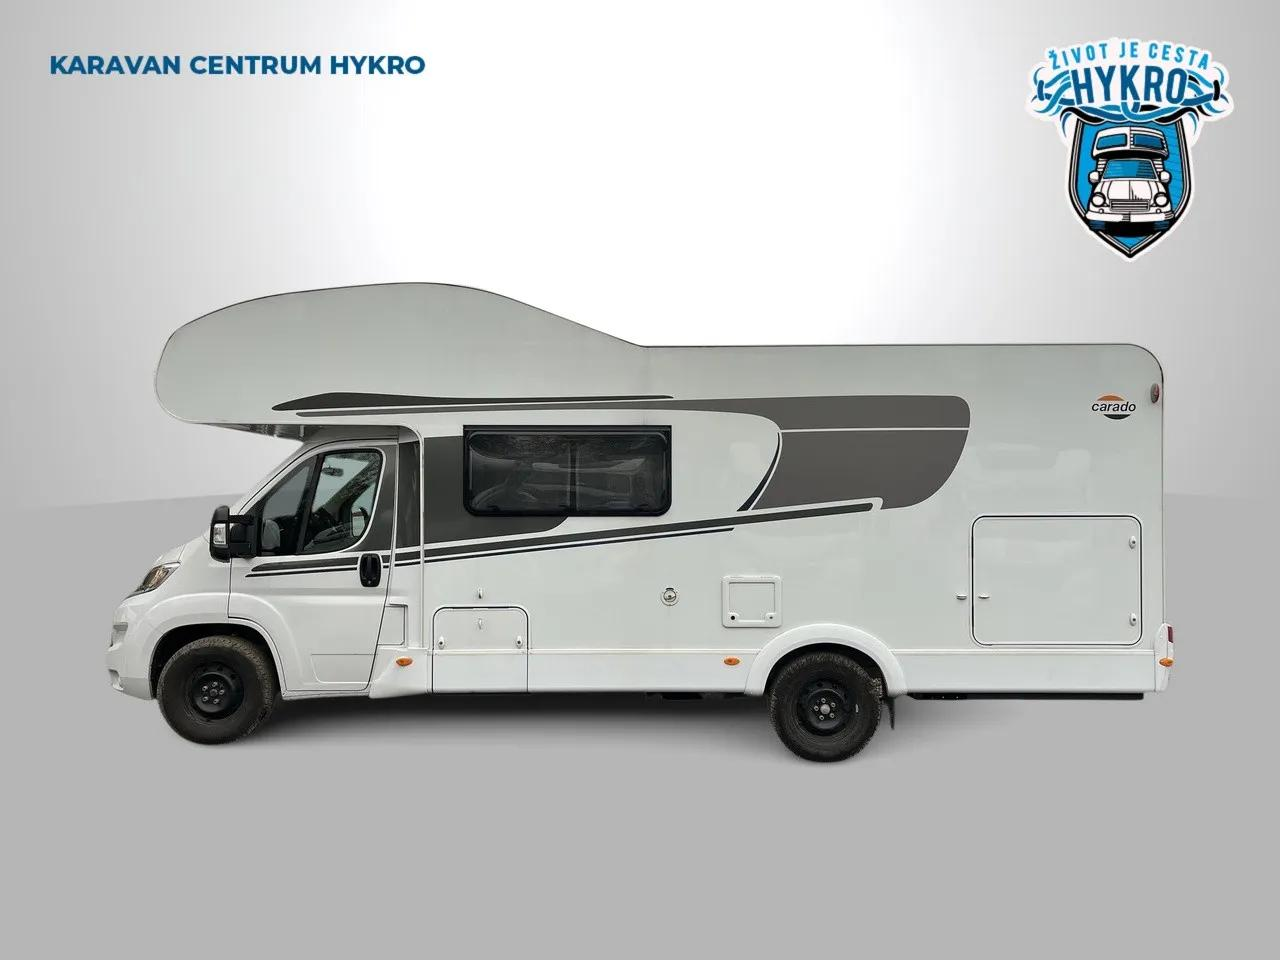
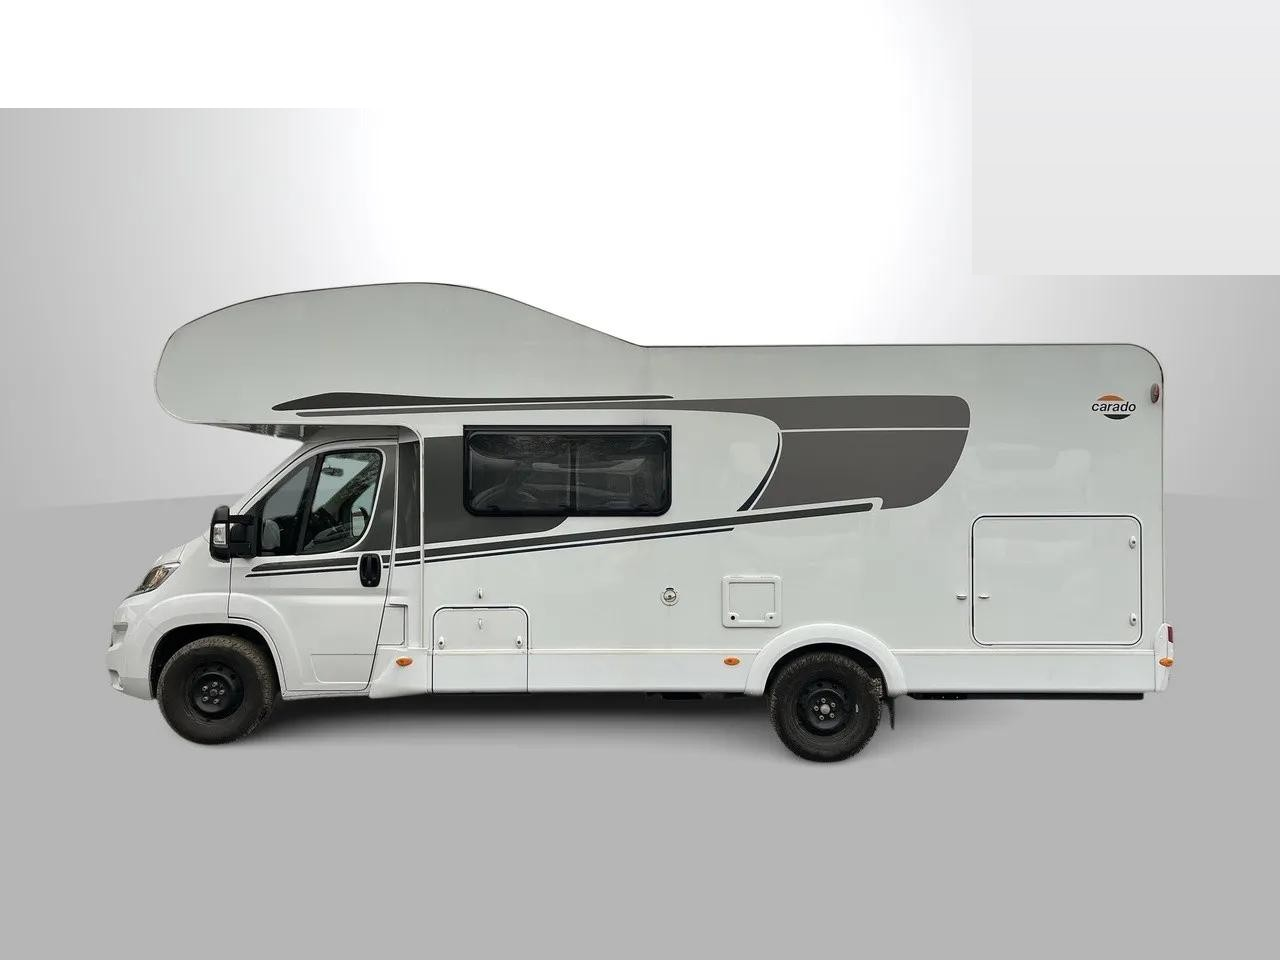
Odstranění vodoznaku HYKRO a doplnění fotek ložnice, koupelny a interiéru
- z 5 exteriérových fotek Carada A 464 odstraněn vodoznak/logo
  "KARAVAN CENTRUM HYKRO" (přemalováno barvou pozadí, bez zásahu do
  samotného vozu)
- doplněny nové reálné fotky: ložnice (pevné lůžko), koupelna s oddělenou
  sprchou, celkový pohled do interiéru a fotka vozu na cestách v horách
- fotogalerie nyní obsahuje všech 13 fotek vozu správně roztříděných
  (exteriér/interiér/dispozice/na cestách) místo provizorních záměn
- v sekci Interiér na stránce obytné auto teď je skutečná fotka ložnice
  a koupelny místo neodpovídajících náhrad
- doplněna klimatizace Dometic FreshJet FJZ4 2200 do výbavy

Changed region(s): [[0.8125, 0.0, 1.0, 0.3125], [0.0, 0.0, 0.3438, 0.125]]

diff --git a/fotogalerie.html b/fotogalerie.html
@@ -52,9 +52,13 @@
         <a href="src/carado-a464-ext-predek-2.jpg" data-lb data-cat="ext" data-caption="Alkovna nad kabinou"><img src="src/carado-a464-ext-predek-2.jpg" alt="Alkovna nad kabinou" loading="lazy"><span>Alkovna nad kabinou</span></a>
         <a href="src/carado-a464-ext-bok.jpg" data-lb data-cat="ext" data-caption="Boční pohled"><img src="src/carado-a464-ext-bok.jpg" alt="Carado A 464 z boku" loading="lazy"><span>Boční pohled</span></a>
         <a href="src/carado-a464-ext-bok-2.jpg" data-lb data-cat="ext" data-caption="Boční pohled"><img src="src/carado-a464-ext-bok-2.jpg" alt="Carado A 464 z boku" loading="lazy"><span>Boční pohled</span></a>
+        <a href="src/carado-a464-ext-priroda.jpg" data-lb data-cat="trip" data-caption="Carado A 464 na cestách"><img src="src/carado-a464-ext-priroda.jpg" alt="Carado A 464 v horách" loading="lazy"><span>Na cestách</span></a>
         <a href="src/Grossglockner-Hochalpenstrasse-35c513e7-828b-4444-861d-616a0269dcc5.webp" data-lb data-cat="trip" data-caption="Alpské serpentiny – Grossglockner Hochalpenstrasse"><img src="src/Grossglockner-Hochalpenstrasse-35c513e7-828b-4444-861d-616a0269dcc5.webp" alt="Alpské serpentiny" loading="lazy"><span>Alpy – Grossglockner</span></a>
-        <a href="src/carado-a464-int-kabina.jpg" data-lb data-cat="int" data-caption="Kabina řidiče"><img src="src/carado-a464-int-kabina.jpg" alt="Kabina řidiče" loading="lazy"><span>Kabina řidiče</span></a>
+        <a href="src/carado-a464-int-celkovy-pohled.jpg" data-lb data-cat="int" data-caption="Celkový pohled do interiéru"><img src="src/carado-a464-int-celkovy-pohled.jpg" alt="Interiér vozu – kuchyň, jídelní kout a ložnice" loading="lazy"><span>Interiér vozu</span></a>
+        <a href="src/carado-a464-int-loznice.jpg" data-lb data-cat="int" data-caption="Pevné lůžko vzadu"><img src="src/carado-a464-int-loznice.jpg" alt="Ložnice" loading="lazy"><span>Ložnice</span></a>
         <a href="src/carado-a464-int-kuchyn.jpg" data-lb data-cat="int" data-caption="Kuchyňský kout"><img src="src/carado-a464-int-kuchyn.jpg" alt="Kuchyňský kout" loading="lazy"><span>Kuchyň</span></a>
+        <a href="src/carado-a464-int-koupelna.jpg" data-lb data-cat="int" data-caption="Koupelna s oddělenou sprchou"><img src="src/carado-a464-int-koupelna.jpg" alt="Koupelna" loading="lazy"><span>Koupelna</span></a>
+        <a href="src/carado-a464-int-kabina.jpg" data-lb data-cat="int" data-caption="Kabina řidiče"><img src="src/carado-a464-int-kabina.jpg" alt="Kabina řidiče" loading="lazy"><span>Kabina řidiče</span></a>
         <a href="src/carado-a464-int-kabina-zavesy.jpg" data-lb data-cat="int" data-caption="Pohled do kabiny"><img src="src/carado-a464-int-kabina-zavesy.jpg" alt="Pohled do kabiny" loading="lazy"><span>Pohled do kabiny</span></a>
         <a href="src/pudorys-carado-a464.jpg" data-lb data-cat="plan" data-caption="Půdorys vozu – uspořádání lůžek, kuchyně a koupelny"><img src="src/pudorys-carado-a464.jpg" alt="Půdorys vozu shora – alkovna, sedačky, kuchyň, koupelna a zadní lůžko" loading="lazy"><span>Půdorys vozu</span></a>
       </div>

diff --git a/praha/fotogalerie.html b/praha/fotogalerie.html
@@ -52,9 +52,13 @@
         <a href="src/carado-a464-ext-predek-2.jpg" data-lb data-cat="ext" data-caption="Alkovna nad kabinou"><img src="src/carado-a464-ext-predek-2.jpg" alt="Alkovna nad kabinou" loading="lazy"><span>Alkovna nad kabinou</span></a>
         <a href="src/carado-a464-ext-bok.jpg" data-lb data-cat="ext" data-caption="Boční pohled"><img src="src/carado-a464-ext-bok.jpg" alt="Carado A 464 z boku" loading="lazy"><span>Boční pohled</span></a>
         <a href="src/carado-a464-ext-bok-2.jpg" data-lb data-cat="ext" data-caption="Boční pohled"><img src="src/carado-a464-ext-bok-2.jpg" alt="Carado A 464 z boku" loading="lazy"><span>Boční pohled</span></a>
+        <a href="src/carado-a464-ext-priroda.jpg" data-lb data-cat="trip" data-caption="Carado A 464 na cestách"><img src="src/carado-a464-ext-priroda.jpg" alt="Carado A 464 v horách" loading="lazy"><span>Na cestách</span></a>
         <a href="src/Grossglockner-Hochalpenstrasse-35c513e7-828b-4444-861d-616a0269dcc5.webp" data-lb data-cat="trip" data-caption="Alpské serpentiny – Grossglockner Hochalpenstrasse"><img src="src/Grossglockner-Hochalpenstrasse-35c513e7-828b-4444-861d-616a0269dcc5.webp" alt="Alpské serpentiny" loading="lazy"><span>Alpy – Grossglockner</span></a>
-        <a href="src/carado-a464-int-kabina.jpg" data-lb data-cat="int" data-caption="Kabina řidiče"><img src="src/carado-a464-int-kabina.jpg" alt="Kabina řidiče" loading="lazy"><span>Kabina řidiče</span></a>
+        <a href="src/carado-a464-int-celkovy-pohled.jpg" data-lb data-cat="int" data-caption="Celkový pohled do interiéru"><img src="src/carado-a464-int-celkovy-pohled.jpg" alt="Interiér vozu – kuchyň, jídelní kout a ložnice" loading="lazy"><span>Interiér vozu</span></a>
+        <a href="src/carado-a464-int-loznice.jpg" data-lb data-cat="int" data-caption="Pevné lůžko vzadu"><img src="src/carado-a464-int-loznice.jpg" alt="Ložnice" loading="lazy"><span>Ložnice</span></a>
         <a href="src/carado-a464-int-kuchyn.jpg" data-lb data-cat="int" data-caption="Kuchyňský kout"><img src="src/carado-a464-int-kuchyn.jpg" alt="Kuchyňský kout" loading="lazy"><span>Kuchyň</span></a>
+        <a href="src/carado-a464-int-koupelna.jpg" data-lb data-cat="int" data-caption="Koupelna s oddělenou sprchou"><img src="src/carado-a464-int-koupelna.jpg" alt="Koupelna" loading="lazy"><span>Koupelna</span></a>
+        <a href="src/carado-a464-int-kabina.jpg" data-lb data-cat="int" data-caption="Kabina řidiče"><img src="src/carado-a464-int-kabina.jpg" alt="Kabina řidiče" loading="lazy"><span>Kabina řidiče</span></a>
         <a href="src/carado-a464-int-kabina-zavesy.jpg" data-lb data-cat="int" data-caption="Pohled do kabiny"><img src="src/carado-a464-int-kabina-zavesy.jpg" alt="Pohled do kabiny" loading="lazy"><span>Pohled do kabiny</span></a>
         <a href="src/pudorys-carado-a464.jpg" data-lb data-cat="plan" data-caption="Půdorys vozu – uspořádání lůžek, kuchyně a koupelny"><img src="src/pudorys-carado-a464.jpg" alt="Půdorys vozu shora – alkovna, sedačky, kuchyň, koupelna a zadní lůžko" loading="lazy"><span>Půdorys vozu</span></a>
       </div>

diff --git a/obytne-auto.html b/obytne-auto.html
@@ -73,9 +73,9 @@
         <h2>Podívejte se dovnitř</h2>
       </div>
       <div class="strip">
-        <a href="src/carado-a464-int-kabina.jpg" data-lb data-caption="Kabina řidiče"><img src="src/carado-a464-int-kabina.jpg" alt="Kabina řidiče" loading="lazy"></a>
+        <a href="src/carado-a464-int-loznice.jpg" data-lb data-caption="Pevné lůžko vzadu"><img src="src/carado-a464-int-loznice.jpg" alt="Ložnice" loading="lazy"></a>
         <a href="src/carado-a464-int-kuchyn.jpg" data-lb data-caption="Kuchyňský kout"><img src="src/carado-a464-int-kuchyn.jpg" alt="Kuchyňský kout" loading="lazy"></a>
-        <a href="src/carado-a464-int-kabina-zavesy.jpg" data-lb data-caption="Pohled do kabiny"><img src="src/carado-a464-int-kabina-zavesy.jpg" alt="Pohled do kabiny" loading="lazy"></a>
+        <a href="src/carado-a464-int-koupelna.jpg" data-lb data-caption="Koupelna s oddělenou sprchou"><img src="src/carado-a464-int-koupelna.jpg" alt="Koupelna" loading="lazy"></a>
         <a href="src/carado-a464-ext-predek-2.jpg" data-lb data-caption="Alkovna nad kabinou"><img src="src/carado-a464-ext-predek-2.jpg" alt="Alkovna nad kabinou" loading="lazy"></a>
       </div>
       <p class="center" style="margin-top:28px"><a class="btn ghost" href="fotogalerie.html">Celá fotogalerie</a></p>
@@ -122,6 +122,7 @@
         <div class="equip">
           <h3><span><svg viewBox="0 0 24 24" fill="none" stroke="currentColor" stroke-width="1.7" stroke-linecap="round" stroke-linejoin="round" aria-hidden="true"><path d="M3 19V6M3 15h18v4M21 15v-3a3 3 0 00-3-3h-7v6M7 12.5a1.5 1.5 0 100-3 1.5 1.5 0 000 3z"/></svg></span>Obytná část</h3>
           <ul class="ticks">
+            <li>Klimatizace Dometic FreshJet FJZ4 2200</li>
             <li>Plynové topení Truma Combi 6 s 10l bojlerem</li>
             <li>Izolovaná odpadní nádrž</li>
             <li>Koupelna s oddělenou sprchou a WC</li>

diff --git a/praha/obytne-auto.html b/praha/obytne-auto.html
@@ -73,9 +73,9 @@
         <h2>Podívejte se dovnitř</h2>
       </div>
       <div class="strip">
-        <a href="src/carado-a464-int-kabina.jpg" data-lb data-caption="Kabina řidiče"><img src="src/carado-a464-int-kabina.jpg" alt="Kabina řidiče" loading="lazy"></a>
+        <a href="src/carado-a464-int-loznice.jpg" data-lb data-caption="Pevné lůžko vzadu"><img src="src/carado-a464-int-loznice.jpg" alt="Ložnice" loading="lazy"></a>
         <a href="src/carado-a464-int-kuchyn.jpg" data-lb data-caption="Kuchyňský kout"><img src="src/carado-a464-int-kuchyn.jpg" alt="Kuchyňský kout" loading="lazy"></a>
-        <a href="src/carado-a464-int-kabina-zavesy.jpg" data-lb data-caption="Pohled do kabiny"><img src="src/carado-a464-int-kabina-zavesy.jpg" alt="Pohled do kabiny" loading="lazy"></a>
+        <a href="src/carado-a464-int-koupelna.jpg" data-lb data-caption="Koupelna s oddělenou sprchou"><img src="src/carado-a464-int-koupelna.jpg" alt="Koupelna" loading="lazy"></a>
         <a href="src/carado-a464-ext-predek-2.jpg" data-lb data-caption="Alkovna nad kabinou"><img src="src/carado-a464-ext-predek-2.jpg" alt="Alkovna nad kabinou" loading="lazy"></a>
       </div>
       <p class="center" style="margin-top:28px"><a class="btn ghost" href="fotogalerie.html">Celá fotogalerie</a></p>
@@ -122,6 +122,7 @@
         <div class="equip">
           <h3><span><svg viewBox="0 0 24 24" fill="none" stroke="currentColor" stroke-width="1.7" stroke-linecap="round" stroke-linejoin="round" aria-hidden="true"><path d="M3 19V6M3 15h18v4M21 15v-3a3 3 0 00-3-3h-7v6M7 12.5a1.5 1.5 0 100-3 1.5 1.5 0 000 3z"/></svg></span>Obytná část</h3>
           <ul class="ticks">
+            <li>Klimatizace Dometic FreshJet FJZ4 2200</li>
             <li>Plynové topení Truma Combi 6 s 10l bojlerem</li>
             <li>Izolovaná odpadní nádrž</li>
             <li>Koupelna s oddělenou sprchou a WC</li>

diff --git a/index.html b/index.html
@@ -159,7 +159,7 @@
           <div class="body"><span class="meta">Pro začátečníky</span><h3>První pronájem obytňáku</h3><p class="muted">Jak si vybrat vůz, co čekat a čeho se nebát.</p><a href="blog.html#prvni-pronajem">Číst článek →</a></div>
         </article>
         <article class="post">
-          <img src="src/carado-a464-ext-bok.jpg" alt="Obytný vůz Carado A 464" loading="lazy">
+          <img src="src/carado-a464-ext-priroda.jpg" alt="Obytný vůz Carado A 464" loading="lazy">
           <div class="body"><span class="meta">Praktické</span><h3>Co si sbalit na cesty</h3><p class="muted">Kontrolní seznam, na který nezapomenete.</p><a href="blog.html#co-sbalit">Číst článek →</a></div>
         </article>
       </div>

diff --git a/praha/index.html b/praha/index.html
@@ -159,7 +159,7 @@
           <div class="body"><span class="meta">Pro začátečníky</span><h3>První pronájem obytňáku</h3><p class="muted">Jak si vybrat vůz, co čekat a čeho se nebát.</p><a href="blog.html#prvni-pronajem">Číst článek →</a></div>
         </article>
         <article class="post">
-          <img src="src/carado-a464-ext-bok.jpg" alt="Obytný vůz Carado A 464" loading="lazy">
+          <img src="src/carado-a464-ext-priroda.jpg" alt="Obytný vůz Carado A 464" loading="lazy">
           <div class="body"><span class="meta">Praktické</span><h3>Co si sbalit na cesty</h3><p class="muted">Kontrolní seznam, na který nezapomenete.</p><a href="blog.html#co-sbalit">Číst článek →</a></div>
         </article>
       </div>
